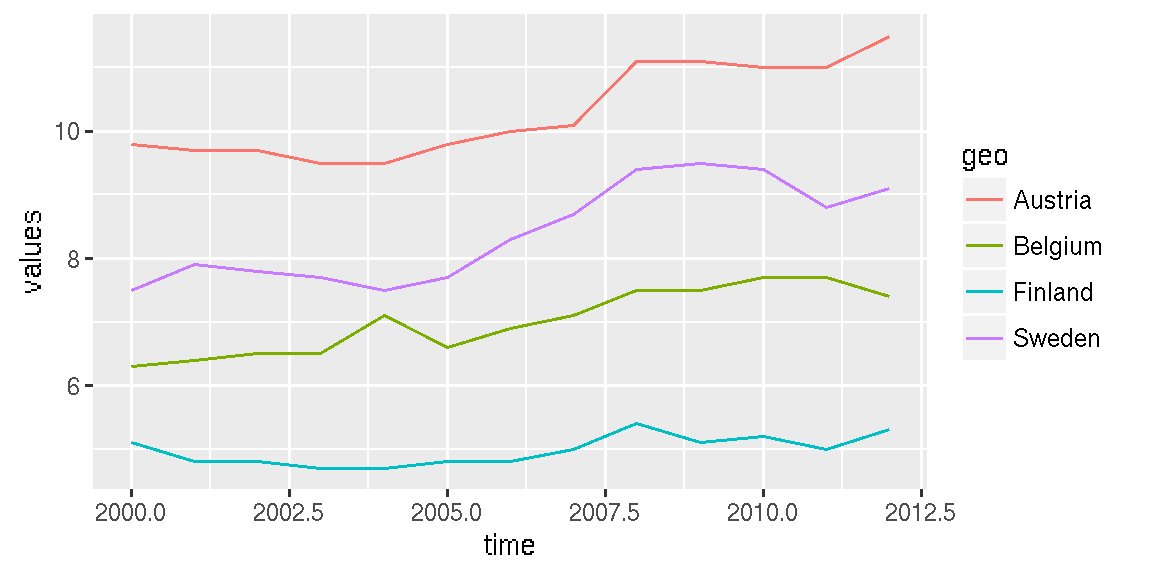
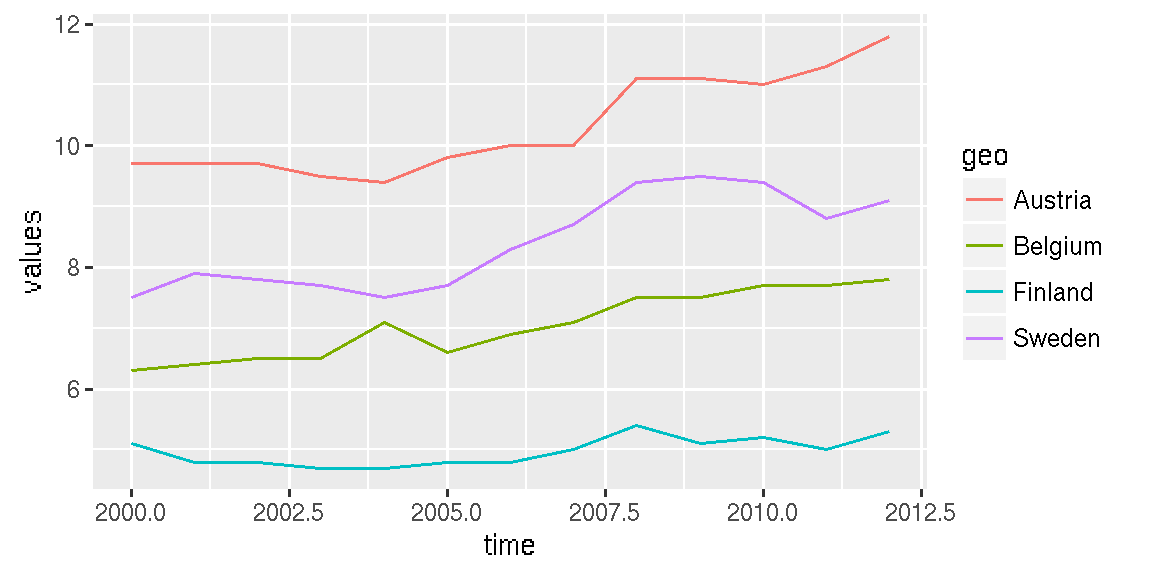
ok

diff --git a/vignettes/eurostat_tutorial.md b/vignettes/eurostat_tutorial.md
@@ -32,6 +32,8 @@ Overall, the eurostat package includes the following functions:
     get_eurostat_raw        Download Data from Eurostat Database
     get_eurostat_toc        Download Table of Contents of Eurostat Data
                             Sets
+    harmonize_country_code
+                            Harmonize Country Code
     label_eurostat          Get Eurostat Codes
     search_eurostat         Grep Datasets Titles from Eurostat
 
@@ -121,10 +123,10 @@ selected dataset.
 <td align="left">Consumers - monthly data</td>
 <td align="left">ei_bsco_m</td>
 <td align="left">dataset</td>
-<td align="left">29.06.2016</td>
-<td align="left">29.06.2016</td>
+<td align="left">28.07.2016</td>
+<td align="left">28.07.2016</td>
 <td align="left">1985M01</td>
-<td align="left">2016M06</td>
+<td align="left">2016M07</td>
 <td align="left">NA</td>
 </tr>
 </tbody>
@@ -155,69 +157,69 @@ instance datasets or tables.
 </thead>
 <tbody>
 <tr class="odd">
-<td align="left">5612</td>
+<td align="left">5688</td>
 <td align="left">Volume of passenger transport relative to GDP</td>
 <td align="left">tran_hv_pstra</td>
 <td align="left">dataset</td>
-<td align="left">05.06.2015</td>
-<td align="left">04.06.2015</td>
-<td align="left">1995</td>
-<td align="left">2013</td>
+<td align="left">03.08.2016</td>
+<td align="left">03.08.2016</td>
+<td align="left">2000</td>
+<td align="left">2014</td>
 <td align="left">NA</td>
 </tr>
 <tr class="even">
-<td align="left">5613</td>
+<td align="left">5689</td>
 <td align="left">Modal split of passenger transport</td>
 <td align="left">tran_hv_psmod</td>
 <td align="left">dataset</td>
-<td align="left">05.06.2015</td>
-<td align="left">05.06.2015</td>
+<td align="left">03.08.2016</td>
+<td align="left">02.08.2016</td>
 <td align="left">1990</td>
-<td align="left">2013</td>
+<td align="left">2014</td>
 <td align="left">NA</td>
 </tr>
 <tr class="odd">
-<td align="left">5652</td>
+<td align="left">5742</td>
 <td align="left">Railway transport - Total annual passenger transport (1 000 pass., million pkm)</td>
 <td align="left">rail_pa_total</td>
 <td align="left">dataset</td>
-<td align="left">21.06.2016</td>
+<td align="left">09.08.2016</td>
 <td align="left">26.05.2016</td>
 <td align="left">2004</td>
 <td align="left">2015</td>
 <td align="left">NA</td>
 </tr>
 <tr class="even">
-<td align="left">5656</td>
+<td align="left">5746</td>
 <td align="left">International railway passenger transport from the reporting country to the country of disembarkation (1 000 passengers)</td>
 <td align="left">rail_pa_intgong</td>
 <td align="left">dataset</td>
-<td align="left">14.06.2016</td>
+<td align="left">09.08.2016</td>
 <td align="left">26.05.2016</td>
 <td align="left">2002</td>
 <td align="left">2015</td>
 <td align="left">NA</td>
 </tr>
 <tr class="odd">
-<td align="left">5657</td>
+<td align="left">5747</td>
 <td align="left">International railway passenger transport from the country of embarkation to the reporting country (1 000 passengers)</td>
 <td align="left">rail_pa_intcmng</td>
 <td align="left">dataset</td>
-<td align="left">14.06.2016</td>
+<td align="left">09.08.2016</td>
 <td align="left">26.05.2016</td>
 <td align="left">2002</td>
 <td align="left">2015</td>
 <td align="left">NA</td>
 </tr>
 <tr class="even">
-<td align="left">6006</td>
+<td align="left">6097</td>
 <td align="left">Air passenger transport by reporting country</td>
 <td align="left">avia_paoc</td>
 <td align="left">dataset</td>
-<td align="left">25.04.2016</td>
-<td align="left">19.04.2016</td>
+<td align="left">15.07.2016</td>
+<td align="left">14.07.2016</td>
 <td align="left">1993</td>
-<td align="left">2016M02</td>
+<td align="left">2016Q1</td>
 <td align="left">NA</td>
 </tr>
 </tbody>
@@ -270,10 +272,10 @@ Investigate the structure of the downloaded data set:
 
     str(dat)
 
-    ## 'data.frame':    2218 obs. of  5 variables:
+    ## 'data.frame':    2326 obs. of  5 variables:
     ##  $ unit   : Factor w/ 1 level "PC": 1 1 1 1 1 1 1 1 1 1 ...
     ##  $ vehicle: Factor w/ 3 levels "BUS_TOT","CAR",..: 1 1 1 1 1 1 1 1 1 1 ...
-    ##  $ geo    : chr  "AT" "BE" "CH" "DE" ...
+    ##  $ geo    : Factor w/ 35 levels "AT","BE","CH",..: 1 2 3 4 5 6 7 8 9 10 ...
     ##  $ time   : num  1990 1990 1990 1990 1990 1990 1990 1990 1990 1990 ...
     ##  $ values : num  11 10.6 3.7 9.1 11.3 32.4 14.9 13.5 6 24.8 ...
 
@@ -335,7 +337,7 @@ Investigate the structure of the downloaded data set:
 <td align="left">10</td>
 <td align="left">PC</td>
 <td align="left">BUS_TOT</td>
-<td align="left">GR</td>
+<td align="left">EL</td>
 <td align="right">1990</td>
 <td align="right">32.4</td>
 </tr>
@@ -366,43 +368,43 @@ desidered series (upper case). For time variable, in addition to a
 <td align="left">PC</td>
 <td align="left">BUS_TOT</td>
 <td align="left">EU28</td>
-<td align="right">2013</td>
-<td align="right">9.2</td>
+<td align="right">2014</td>
+<td align="right">9.1</td>
 </tr>
 <tr class="even">
 <td align="left">PC</td>
 <td align="left">BUS_TOT</td>
 <td align="left">FI</td>
-<td align="right">2013</td>
+<td align="right">2014</td>
 <td align="right">9.8</td>
 </tr>
 <tr class="odd">
 <td align="left">PC</td>
 <td align="left">CAR</td>
 <td align="left">EU28</td>
-<td align="right">2013</td>
-<td align="right">83.2</td>
+<td align="right">2014</td>
+<td align="right">83.4</td>
 </tr>
 <tr class="even">
 <td align="left">PC</td>
 <td align="left">CAR</td>
 <td align="left">FI</td>
-<td align="right">2013</td>
-<td align="right">84.9</td>
+<td align="right">2014</td>
+<td align="right">85.2</td>
 </tr>
 <tr class="odd">
 <td align="left">PC</td>
 <td align="left">TRN</td>
 <td align="left">EU28</td>
-<td align="right">2013</td>
+<td align="right">2014</td>
 <td align="right">7.6</td>
 </tr>
 <tr class="even">
 <td align="left">PC</td>
 <td align="left">TRN</td>
 <td align="left">FI</td>
-<td align="right">2013</td>
-<td align="right">5.3</td>
+<td align="right">2014</td>
+<td align="right">5.0</td>
 </tr>
 </tbody>
 </table>
@@ -433,43 +435,43 @@ human-readable labels instead, use a `type = "label"` argument.
 <td align="left">Percentage</td>
 <td align="left">Motor coaches, buses and trolley buses</td>
 <td align="left">European Union (28 countries)</td>
-<td align="right">2013</td>
-<td align="right">9.2</td>
+<td align="right">2014</td>
+<td align="right">9.1</td>
 </tr>
 <tr class="even">
 <td align="left">Percentage</td>
 <td align="left">Motor coaches, buses and trolley buses</td>
 <td align="left">Finland</td>
-<td align="right">2013</td>
+<td align="right">2014</td>
 <td align="right">9.8</td>
 </tr>
 <tr class="odd">
 <td align="left">Percentage</td>
 <td align="left">Passenger cars</td>
 <td align="left">European Union (28 countries)</td>
-<td align="right">2013</td>
-<td align="right">83.2</td>
+<td align="right">2014</td>
+<td align="right">83.4</td>
 </tr>
 <tr class="even">
 <td align="left">Percentage</td>
 <td align="left">Passenger cars</td>
 <td align="left">Finland</td>
-<td align="right">2013</td>
-<td align="right">84.9</td>
+<td align="right">2014</td>
+<td align="right">85.2</td>
 </tr>
 <tr class="odd">
 <td align="left">Percentage</td>
 <td align="left">Trains</td>
 <td align="left">European Union (28 countries)</td>
-<td align="right">2013</td>
+<td align="right">2014</td>
 <td align="right">7.6</td>
 </tr>
 <tr class="even">
 <td align="left">Percentage</td>
 <td align="left">Trains</td>
 <td align="left">Finland</td>
-<td align="right">2013</td>
-<td align="right">5.3</td>
+<td align="right">2014</td>
+<td align="right">5.0</td>
 </tr>
 </tbody>
 </table>
@@ -549,18 +551,9 @@ vectors or variable names.
 
     label_eurostat_vars(names(datl))
 
-    ## [1] "Unit of measure"                                                                     
-    ## [2] "Vehicles"                                                                            
-    ## [3] "Geopolitical entity (reporting)"                                                     
-    ## [4] "Period of time (a=annual, q=quarterly, m=monthly, d=daily, c=cumulated from January)"
-
-Vehicle information has 3 levels. They are:
+Vehicle information has 3 levels. You can check them now with:
 
     levels(datl$vehicle)
-
-    ## [1] "Motor coaches, buses and trolley buses"
-    ## [2] "Passenger cars"                        
-    ## [3] "Trains"
 
 Selecting and modifying data
 ============================
@@ -643,7 +636,7 @@ EU data from 2012 in all vehicles:
 <td align="left">Trains</td>
 <td align="left">European Union (28 countries)</td>
 <td align="right">2012</td>
-<td align="right">7.6</td>
+<td align="right">7.7</td>
 </tr>
 </tbody>
 </table>
@@ -758,7 +751,7 @@ Reshaping the data is best done with `spread()` in `tidyr`.
 <td align="right">2012</td>
 <td align="right">9.3</td>
 <td align="right">83.0</td>
-<td align="right">7.6</td>
+<td align="right">7.7</td>
 </tr>
 </tbody>
 </table>
@@ -788,7 +781,7 @@ Train passengers for selected EU countries in 2000 - 2012
 <tr class="odd">
 <td align="left">Percentage</td>
 <td align="right">2000</td>
-<td align="right">9.8</td>
+<td align="right">9.7</td>
 <td align="right">6.3</td>
 <td align="right">5.1</td>
 <td align="right">7.5</td>
@@ -820,7 +813,7 @@ Train passengers for selected EU countries in 2000 - 2012
 <tr class="odd">
 <td align="left">Percentage</td>
 <td align="right">2004</td>
-<td align="right">9.5</td>
+<td align="right">9.4</td>
 <td align="right">7.1</td>
 <td align="right">4.7</td>
 <td align="right">7.5</td>
@@ -844,7 +837,7 @@ Train passengers for selected EU countries in 2000 - 2012
 <tr class="even">
 <td align="left">Percentage</td>
 <td align="right">2007</td>
-<td align="right">10.1</td>
+<td align="right">10.0</td>
 <td align="right">7.1</td>
 <td align="right">5.0</td>
 <td align="right">8.7</td>
@@ -876,7 +869,7 @@ Train passengers for selected EU countries in 2000 - 2012
 <tr class="even">
 <td align="left">Percentage</td>
 <td align="right">2011</td>
-<td align="right">11.0</td>
+<td align="right">11.3</td>
 <td align="right">7.7</td>
 <td align="right">5.0</td>
 <td align="right">8.8</td>
@@ -884,8 +877,8 @@ Train passengers for selected EU countries in 2000 - 2012
 <tr class="odd">
 <td align="left">Percentage</td>
 <td align="right">2012</td>
-<td align="right">11.5</td>
-<td align="right">7.4</td>
+<td align="right">11.8</td>
+<td align="right">7.8</td>
 <td align="right">5.3</td>
 <td align="right">9.1</td>
 </tr>
@@ -946,7 +939,7 @@ distributed under the BSD-2-clause (modified FreeBSD) license:
     ##   @Misc{,
     ##     title = {eurostat R package},
     ##     author = {Leo Lahti and Janne Huovari and Markus Kainu and Przemyslaw Biecek},
-    ##     year = {2014},
+    ##     year = {2014-2016},
     ##     url = {https://github.com/rOpenGov/eurostat},
     ##   }
 
@@ -973,7 +966,7 @@ This tutorial was created with
 
     sessionInfo()
 
-    ## R version 3.3.0 (2016-05-03)
+    ## R version 3.3.1 (2016-06-21)
     ## Platform: x86_64-pc-linux-gnu (64-bit)
     ## Running under: Ubuntu 16.04 LTS
     ## 
@@ -991,12 +984,12 @@ This tutorial was created with
     ## other attached packages:
     ## [1] plotrix_3.6-2      ggplot2_2.1.0      tidyr_0.5.1       
     ## [4] rvest_0.3.2        xml2_1.0.0         eurostat_1.2.22   
-    ## [7] rmarkdown_0.9.6.11 knitr_1.13        
+    ## [7] rmarkdown_0.9.6.14 knitr_1.13        
     ## 
     ## loaded via a namespace (and not attached):
     ##  [1] Rcpp_0.12.5      magrittr_1.5     munsell_0.4.3    colorspace_1.2-6
-    ##  [5] R6_2.1.2         plyr_1.8.4       stringr_1.0.0    httr_1.2.0      
-    ##  [9] highr_0.6        tools_3.3.0      grid_3.3.0       gtable_0.2.0    
+    ##  [5] R6_2.1.2         plyr_1.8.4       stringr_1.0.0    httr_1.2.1      
+    ##  [9] highr_0.6        tools_3.3.1      grid_3.3.1       gtable_0.2.0    
     ## [13] htmltools_0.3.5  yaml_2.1.13      digest_0.6.9     assertthat_0.1  
-    ## [17] tibble_1.0       formatR_1.4      curl_0.9.7       evaluate_0.9    
-    ## [21] labeling_0.3     stringi_1.1.1    scales_0.4.0     jsonlite_0.9.22
+    ## [17] tibble_1.1       formatR_1.4      curl_0.9.7       evaluate_0.9    
+    ## [21] labeling_0.3     stringi_1.1.1    scales_0.4.0     jsonlite_1.0
